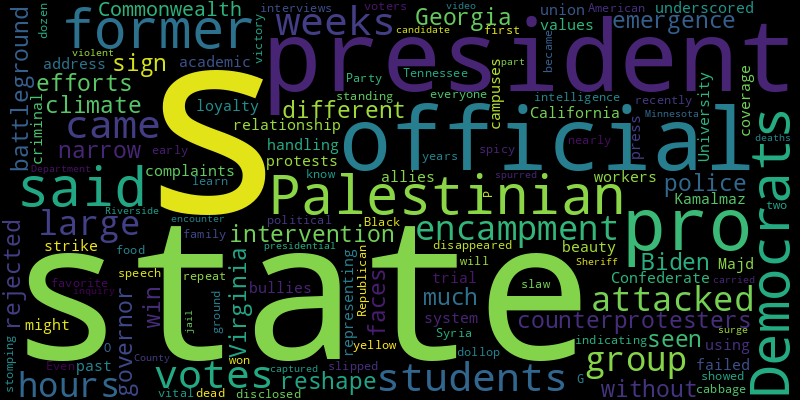
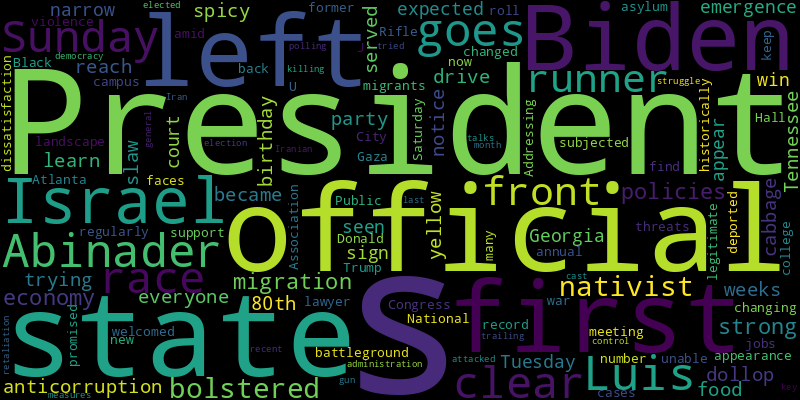
chore(bot): 🟩 auto commit

diff --git a/README.md b/README.md
@@ -2,32 +2,34 @@
 Auto RSS New York Times and Generate Word Cloud
 
 ## New York Times Global News
+* Andrei R. Belousov, an intellectual with no military experience, is known for backing a state-dominated economy.
+* Pakistanis suspect the national intelligence agencies of being behind practically everything — even street performers working for tips in Islamabad.
+* A coach’s soccer legacy is often reduced to titles and trophies. In Liverpool, a beloved manager will endure in murals, music and shared memories.
+* The Ukrainian boxer Oleksandr Usyk became the world’s undisputed heavyweight champion on Sunday. The victory has lifted morale in a country struggling to contain Russian advances on the battlefield.
+* President Luis Abinader goes into Sunday’s race as the clear front-runner, bolstered by nativist migration policies, a strong economy and an anticorruption drive.
+* 
+* Benny Gantz, a centrist member of leadership, presented the prime minister with an ultimatum that demanded a plan for the future of Israel’s war.
+* The celebration of French heritage in the run-up to the Paris Olympics was unveiled on the feast day of Saint Honoré, the patron saint of bakers.
 * A system of dams and canals may soon be unable to provide water to one of the world’s largest cities, a confluence of unchecked growth, crumbling infrastructure and a changing climate.
 * Western leaders looking for signs that the Chinese leader used his influence on President Vladimir V. Putin to end the war in Ukraine are likely to be disappointed.
-* The stunning incursion into the Kharkiv Region lays bare the challenges facing Ukraine’s weary and thinly stretched forces as Russia ramps up its summer offensive.
-* Amid the destruction, a marketplace of survival has arisen focused on the basics: food, shelter and money.
-* A family struggles with daily survival and fears having to pack up again after going back to Khan Younis.
-* Families grapple with anguish and isolation as they try to raise their children in a country that increasingly questions their very identity.
-* Political violence and polarization stalk Europe today, with ominous echoes of the past.
-* When the director and crew of “Io Capitano” toured Senegal with their acclaimed movie, audiences responded with their life stories.
-* People who know the suspect described a “weird and angry” loner who wrote erotic poetry, and whose resentments ranged across the political spectrum.
-* President Biden is pushing for a broad deal that would get Israel to approve a Palestinian nation in return for Saudi recognition of Israel. But officials need to overcome Israeli opposition.
 
 ![Global](./global.png)
 ## New York Times United States News
-* The votes came weeks after students at a pro-Palestinian encampment were attacked for hours by a large group of counterprotesters without police intervention.
-* His narrow win there in 2020 was seen as a sign of Georgia’s emergence as a battleground state. But in 2024, President Biden faces a much different climate there.
-* The Virginia governor rejected efforts by the state’s Democrats to reshape the Commonwealth’s relationship with its Confederate past.
-* The union representing academic workers in the University of California system said other campuses might strike, too, if officials failed to address their complaints over the handling of pro-Palestinian protests.
-* The former president’s criminal trial has underscored what he values: loyalty, beauty, press coverage and using allies as bullies.
-* Majd Kamalmaz disappeared in Syria in early 2017. American officials recently disclosed to his family that they had intelligence indicating that he was dead.
-* Even in the president’s favorite political stomping ground, his standing has slipped with Democrats who will be vital to a repeat victory, interviews with nearly two dozen Black voters showed.
+* President Luis Abinader goes into Sunday’s race as the clear front-runner, bolstered by nativist migration policies, a strong economy and an anticorruption drive.
 * A spicy, yellow dollop of cabbage slaw became Tennessee’s first official state food — then everyone had to learn what it was.
-* In a speech to the state’s Republican Party, the former president said “I know we won” there in 2020. But it has been 52 years since a G.O.P. presidential candidate carried Minnesota.
-* A violent encounter captured on video was part of a surge in jail deaths that spurred an inquiry into the Riverside County Sheriff’s Department.
+* After trying to reach him for weeks, officials served him the notice as he left his 80th birthday party. He is expected to appear in court on Tuesday.
+* His narrow win there in 2020 was seen as a sign of Georgia’s emergence as a battleground state. But in 2024, President Biden faces a changed landscape there.
+* The president’s appearance at the historically Black college in Atlanta was not welcomed by all on campus, amid dissatisfaction with U.S. support for Israel’s war in Gaza.
+* Public officials from Congress to City Hall are now regularly subjected to threats of violence. It’s changing how they do their jobs.
+* A record number of new migrants has left many with legitimate asylum cases unable to find a lawyer to keep them from being deported.
+* Addressing the annual meeting of the National Rifle Association, former President Donald J. Trump on Saturday promised to roll back the Biden administration’s gun-control measures if elected.
+* The president, who is trailing key states in recent polling, tried to cast the election as a struggle for democracy itself.
+* The talks were the first since Iran attacked Israel last month in retaliation for its killing of an Iranian general.
 
 ![US](./usnews.png)
 ## New York Times Asia News
+* Pakistanis suspect the national intelligence agencies of being behind practically everything — even street performers working for tips in Islamabad.
+* The two were racing to climb the 14 tallest mountains in the world when they were killed in an avalanche.
 * Western leaders looking for signs that the Chinese leader used his influence on President Vladimir V. Putin to end the war in Ukraine are likely to be disappointed.
 * Families grapple with anguish and isolation as they try to raise their children in a country that increasingly questions their very identity.
 * One Afghan was also injured in the attack, which many expect will hinder the government’s recent efforts to lure foreign visitors.
@@ -36,7 +38,5 @@ Auto RSS New York Times and Generate Word Cloud
 * President Biden is pushing for a broad deal that would get Israel to approve a Palestinian nation in return for Saudi recognition of Israel. But officials need to overcome Israeli opposition.
 * The Russian leader visited an institute in Harbin known for defense research. President Xi Jinping saw him off with a rare and seemingly deliberate embrace for the cameras.
 * Signaling growing alarm, policymakers ramped up efforts to stem a continued decline in real estate values.
-* At a sanctuary on New Zealand’s North Island, the long-endangered flightless birds have grown so much in number that they are being transported to other areas to start new colonies.
-* The island democracy was early to ban TikTok on government phones, and the ruling party refuses to use it. But a U.S.-style ban is not under consideration.
 
 ![Asian](./asian.png)
